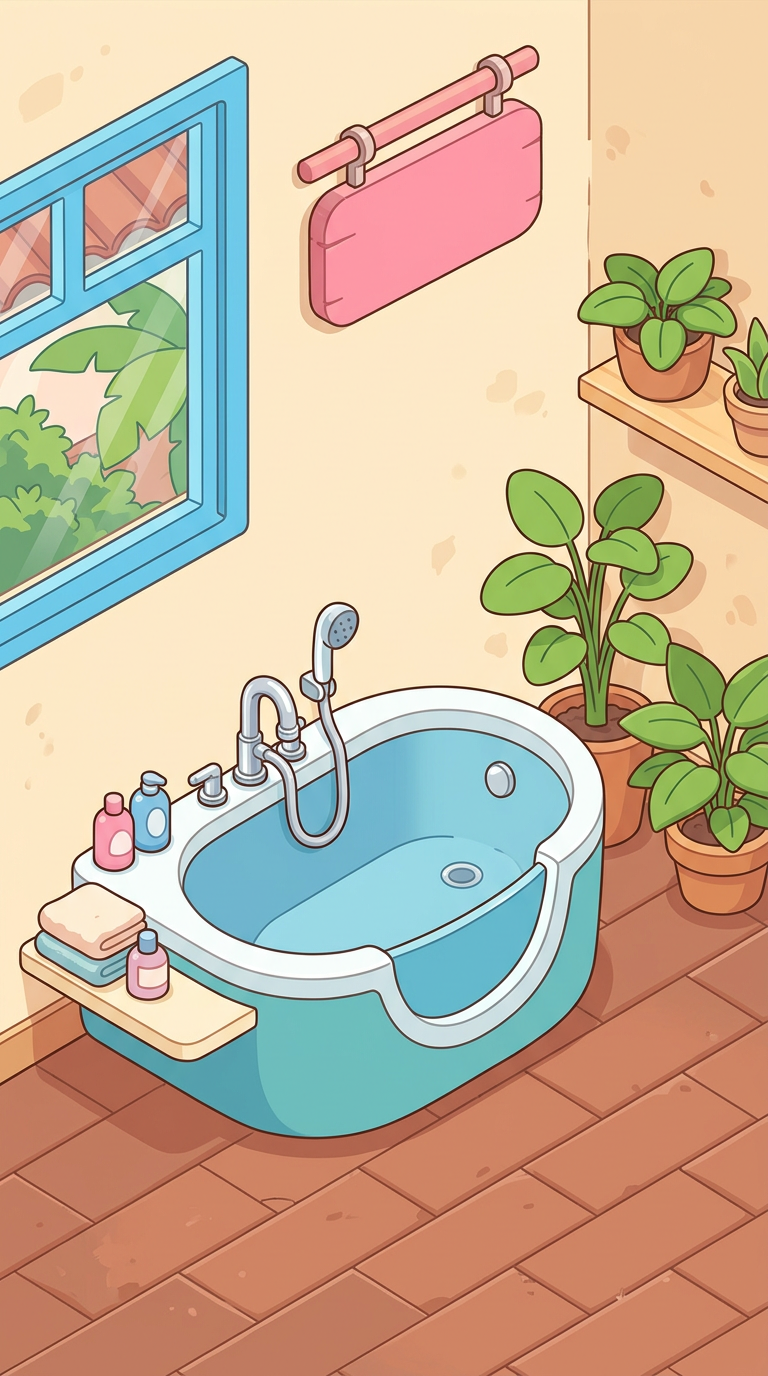
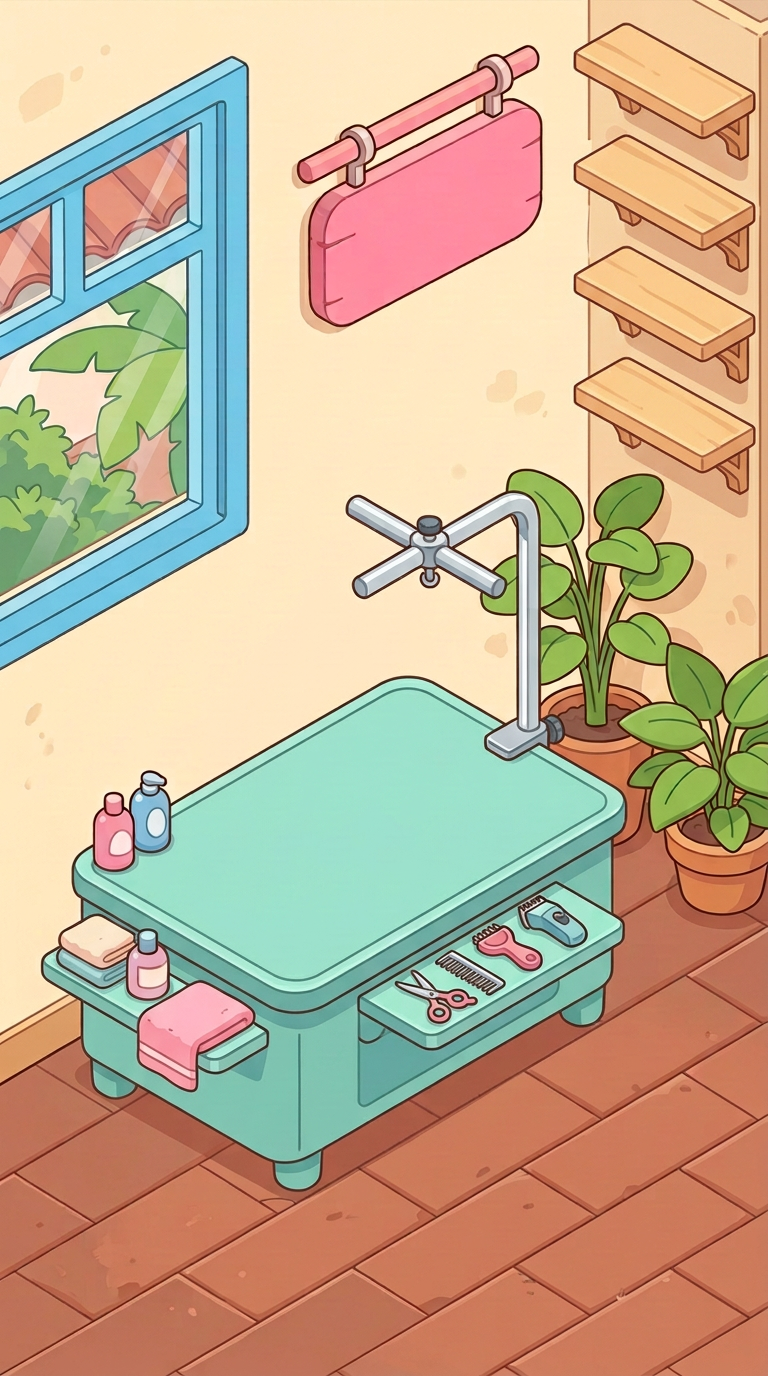
fix: integrate salon UI into illustrated scenes

diff --git a/tests/test_data_and_economy.py b/tests/test_data_and_economy.py
@@ -91,10 +91,16 @@ class FoundationTests(unittest.TestCase):
         self.assertNotIn('func draw_ellipse(', canvas)
         self.assertIn('func _draw_pet_ellipse(', canvas)
         self.assertNotIn('FILA  2', canvas)
-        self.assertIn('bottom.offset_top = -680.0', main)
+        self.assertNotIn('bottom.offset_top', main)
+        self.assertIn('action_hud.position = Vector2(45, 1350)', main)
+        self.assertIn('nav.position = Vector2(45, 155)', main)
         self.assertNotIn('ProgressBar.new()', main)
         self.assertIn('world.tool_at(point)', main)
         self.assertIn('draw_arc(tool_position, 66.0', canvas)
+        self.assertNotIn('for shelf_y:', canvas)
+        self.assertIn('✓  CONTINUAR', main)
+        self.assertIn('DOBRAR PONTUAÇÃO • EM BREVE', main)
+        self.assertIn('double_reward_button.disabled = true', main)
         self.assertIn('include_filter=""', presets)
         self.assertIn('exclude_filter=', presets)
         self.assertNotIn('platform="Android"', presets)

diff --git a/docs/UI_SCENE_INTEGRATION_AUDIT.md b/docs/UI_SCENE_INTEGRATION_AUDIT.md
@@ -1,0 +1,34 @@
+# Auditoria de integração visual — cenário, HUD e resultado
+
+## Evidência do teste no Godot 4.7.2
+
+A captura mostrou três falhas objetivas:
+
+1. O cartão de resultado não reservava altura para sua ação, portanto `CONTINUAR` ficava fora da área visível e a experiência parecia travada.
+2. Um PanelContainer branco ocupava toda a base e rompia a ilusão de cenário.
+3. A prateleira era desenhada por código sobre uma arte que já tinha perspectiva e iluminação próprias; utensílios e ambiente não pareciam pertencer à mesma imagem.
+
+## Correções
+
+- Resultado ampliado e reorganizado, com ações internas sempre visíveis.
+- Ações: `CONTINUAR` funcional e `DOBRAR PONTUAÇÃO • EM BREVE` visível/desabilitada até integração real do rewarded ad.
+- Rodapé branco removido por completo.
+- Instrução e cards de melhoria agora flutuam sobre a arte com transparência, borda e sombra.
+- Missões, Pets, Mapa e Ajustes movidos para o topo como quatro ícones circulares com tooltip, animação, som, haptic e sparkle.
+- Cenários de banho e tosa recriados com prateleiras físicas vazias, perspectiva e sombra coerentes.
+- Código não desenha mais madeira/prateleiras: somente os objetos interativos são compostos sobre os nichos da arte.
+- Background agora usa sua altura integral 9:16, eliminando estiramento vertical após a remoção do rodapé.
+- Utensílios vetoriais receberam silhueta, contorno, sombra, highlight e detalhes próprios.
+- Pet recebeu sombra de contato, contorno derivado da pelagem, highlight, volume corporal e escala por grupo de raça; banheira/mesa permanecem legíveis.
+
+## Contrato de interação
+
+- Elementos de navegação são controles reais.
+- Utensílios têm feedback de retirada da prateleira, som e haptic.
+- Objetos decorativos do fundo não recebem aparência de HUD.
+- A ação futura de anúncio está explicitamente marcada como indisponível e não simula recompensa.
+- Todo resultado oferece uma saída funcional dentro do próprio modal.
+
+## Verificação manual necessária
+
+No Godot 4.7.2, concluir um serviço e confirmar que os dois botões aparecem. Clicar em Continuar deve fechar o modal e trazer o próximo cliente. Confirmar alinhamento dos cinco utensílios nas prateleiras em banho, tosa, secagem, perfume e estilo.
